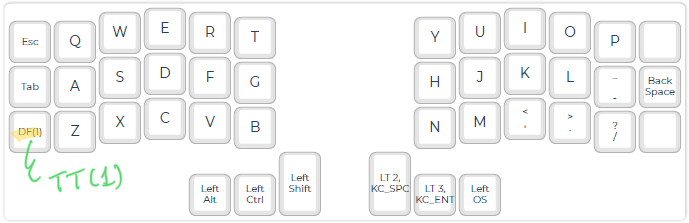
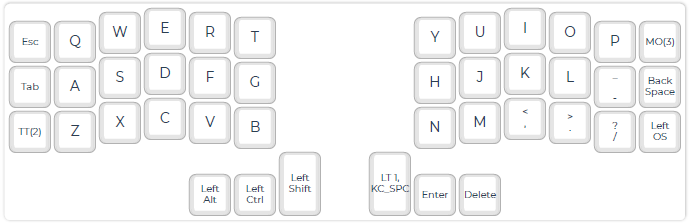
keymap changes causes to update the readme.md

diff --git a/readme.md b/readme.md
@@ -105,22 +105,27 @@ That will be understandable to SKK users,
 but many may prefer a different key. However,
 it also allows for path input, which is indispensable to me. :-)
 
+Note: SKK on/off key for me is Shift + Space.
+
 ![Layout 0](docs/L0.png "Layer 0")
 
-### Alternative map (Layer 1)
+### Supplemental map (Layer 1)
+
+All other keys for printable characters are in this map.
+There are 47 keys including the layer 0 character keys.
+
+![Layout 1](docs/L1.png "Layer 1")
+
+### Alternative map (Layer 2)
 
 This is for entering numbers quickly like using number keypad.
 F9 key is not wrong! It is used in Excel.
 I'm still at a loss as to which keys to include and where to place them.
 
-From Layer 0, TT(1) allows this map enabled momentally or alternatively.
-
-![Layout 1](docs/L1.png "Layer 1")
-
-### Supplemental map (Layer 2)
+From Layer 0, TT(2) allows this map enabled momentally or alternatively.
 
 ![Layout 2](docs/L2.png "Layer 2")
 
-### Shifted supplemental map (Layer 3)
+### Function key map (Layer 3)
 
 ![Layout 3](docs/L3.png "Layer 3")
